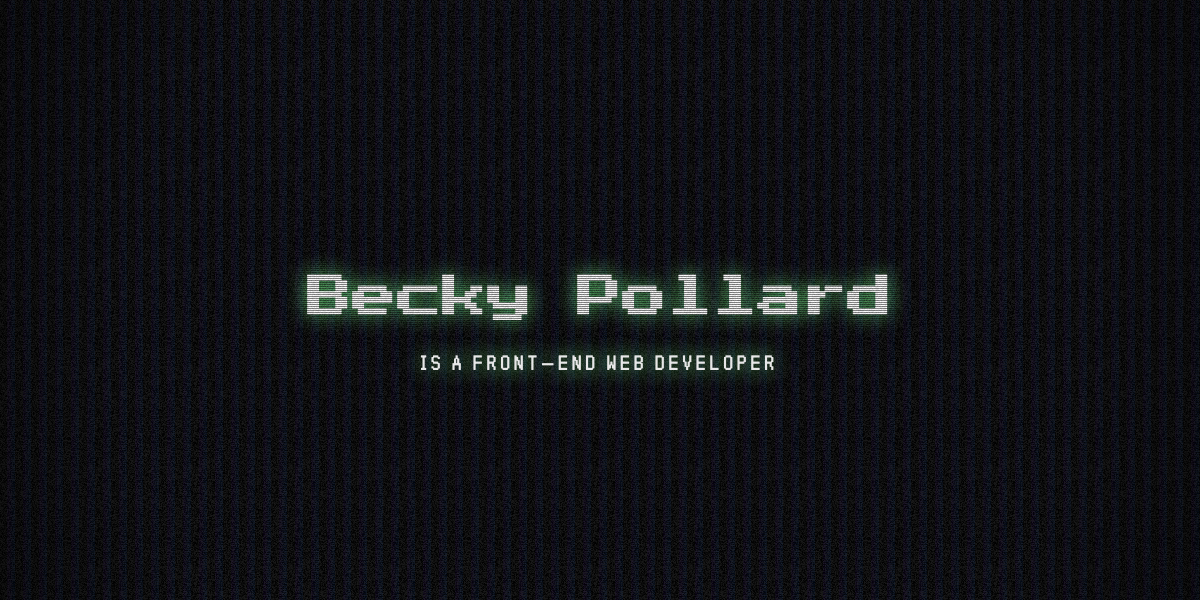
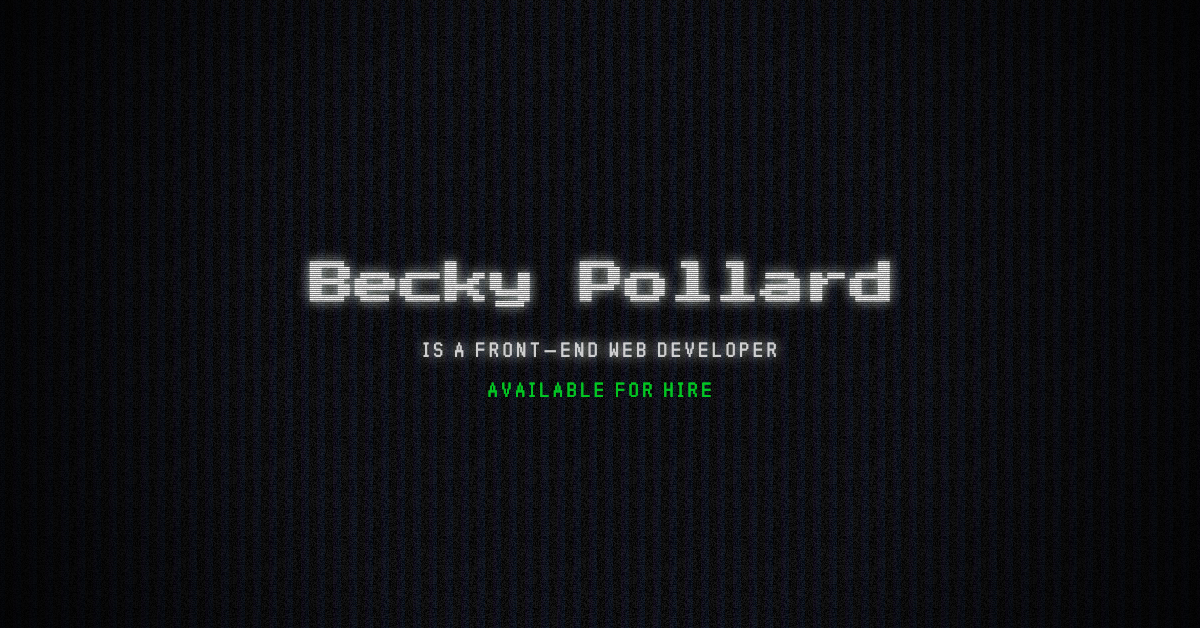
Twitter card test

diff --git a/src/resume.html b/src/resume.html
@@ -3,7 +3,7 @@
   <!DOCTYPE html>
   <html lang="en">
     <head>
-      <link rel="icon" href="./assets/images/favicon.ico" />
+      <link rel="icon" href="./favicon.ico" />
       <meta charset="UTF-8" />
       <meta name="viewport" content="width=device-width, initial-scale=1.0" />
       <meta
@@ -15,14 +15,11 @@
         content="becky pollard, web developer, toronto, front-end web developer, front end web developer, programming, software developer, personal site, resume, available for hire, web designer, web developer in toronto, developer in toronto"
       />
       <meta name="twitter:card" content="summary_large_image" />
-      <meta name="twitter:site" content="@BeckyIRL" />
-      <meta name="twitter:creator" content="@BeckyIRL" />
-      <meta
-        name="twitter:image:src"
-        content="http://beckypollard.com/assets/images/thumbnail.png"
-      />
-      <meta property="og:image" content="http://beckypollard.com/assets/images/thumbnail.png" />
-      <meta property="og:url" content="http://beckypollard.com" />
+      <meta name="twitter:site" content="@BeckyPollard_" />
+      <meta name="twitter:creator" content="@BeckyPollard_" />
+      <meta name="twitter:image:src" content="./assets/images/thumbnail.png" />
+      <meta property="og:image" content="./assets/images/thumbnail.png" />
+      <meta property="og:url" content="http://becky.dev" />
       <meta property="og:title" content="Becky Pollard" />
       <meta
         property="og:description"
